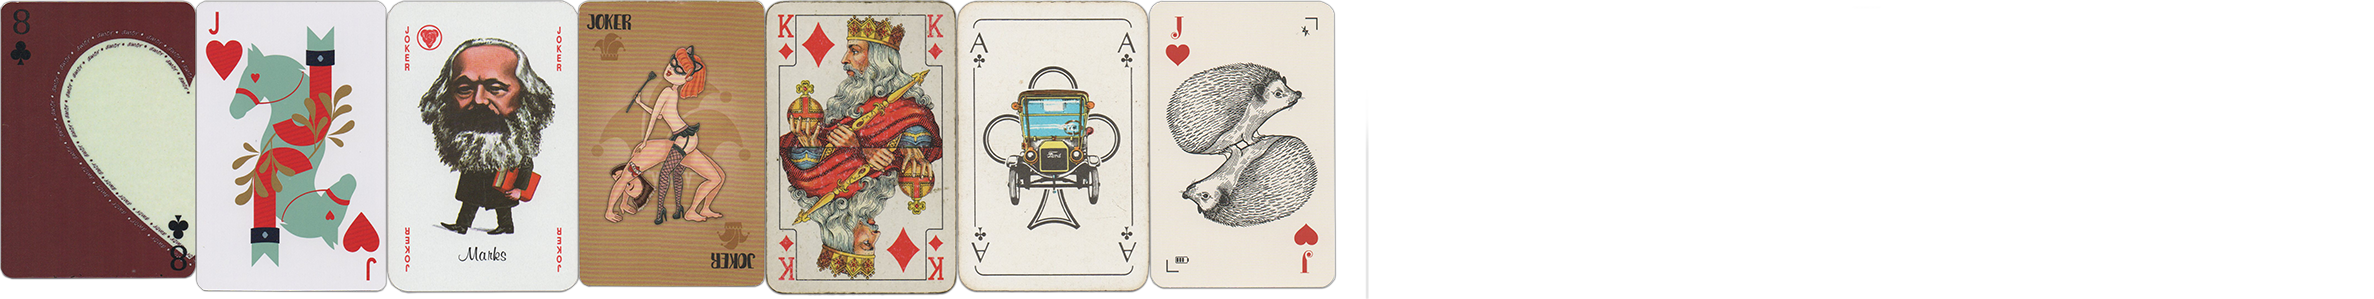
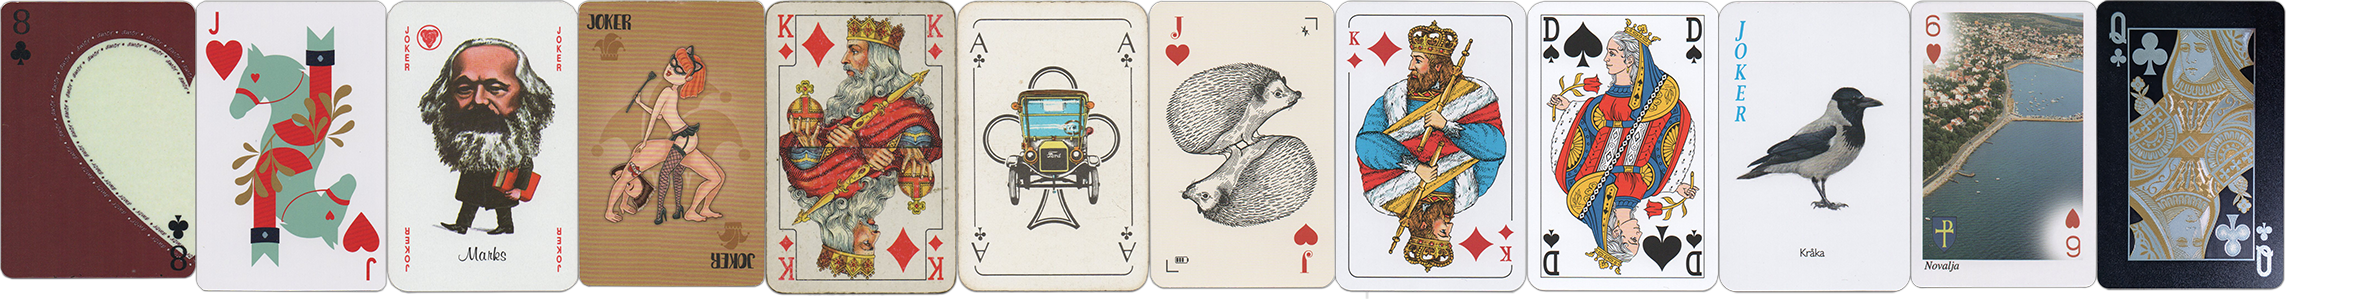
feat(Playing cards): add new cards

Changed region(s): [[0.5611, 0.0, 0.9663, 0.9933], [0.5611, 0.9632, 0.8104, 0.9933]]

diff --git a/src/app/components/item-pages/PlayingCardsPage/index.tsx b/src/app/components/item-pages/PlayingCardsPage/index.tsx
@@ -903,6 +903,27 @@ const PlayingCardsPage: React.FunctionComponent<ItemPageProps> = ({className, it
               height={1050}
               imgs={playingCards10Imgs}
             />
+            <PlayingCard
+              title="Servicebolaget Pedanten"
+              href="https://www.wopc.co.uk/sweden/standard-swedish-pattern"
+              x={4813}
+              y={0}
+              width={692}
+              height={1060}
+              imgs={playingCards10Imgs}
+            />
+            <PlayingCard
+              title="Caixa Geral de Depositos"
+              href="https://www.wopc.co.uk/france/genoese-pattern"
+              x={5501}
+              y={0}
+              width={692}
+              height={1053}
+              imgs={playingCards10Imgs}
+            />
+            <PlayingCard title="Birds" x={6193} y={0} width={692} height={1056} imgs={playingCards10Imgs} />
+            <PlayingCard title="Croatia" x={6885} y={0} width={671} height={1042} imgs={playingCards10Imgs} />
+            <PlayingCard title="Croatia" x={7556} y={0} width={681} height={1045} imgs={playingCards10Imgs} />
 
             {/* unusual */}
             <PlayingCard title="Pokemon" x={4239} y={0} width={418} height={656} imgs={playingCardsXImgs} />

diff --git a/src/app/data/translations/ru.ts b/src/app/data/translations/ru.ts
@@ -601,9 +601,9 @@ export const ru: TranslatedStrings = {
     data: {
       p1: 'Коллекционирую с детства.',
       p2: 'Не ставлю себе задачу собрать очень много и всё подряд, поэтому коллекция не очень \
-большая и насчитывает на данный момент около 120 колод. Собираю именно те, \
+большая и насчитывает на данный момент около 140 колод. Собираю именно те, \
 которые понравились.',
-      imgTitle: 'По одной карте из каждой колоды (кликабельно). Май 2026',
+      imgTitle: 'По одной карте из каждой колоды (кликабельно). Сентябрь 2026',
     },
   },
   Poland: {

diff --git a/src/app/data/translations/en.ts b/src/app/data/translations/en.ts
@@ -528,9 +528,9 @@ export const en: TranslatedStrings = {
     data: {
       p1: 'Collecting since my childhood.',
       p2: 'There is no purpose to gather everything from everywhere, \
-so the collection is not so big and contains around 120 decks today. \
+so the collection is not so big and contains around 140 decks today. \
 Collecting those which I really like.',
-      imgTitle: 'One card from each deck (clickable). May 2026',
+      imgTitle: 'One card from each deck (clickable). September 2026',
     },
   },
   Poland: {
